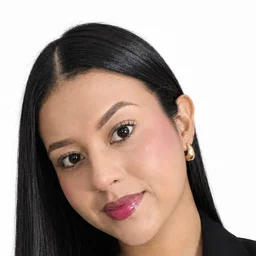
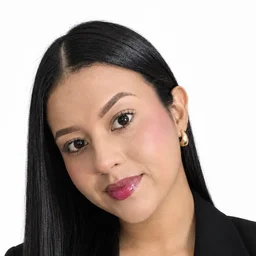
Portada: fotos de fundadores actualizadas, Stefania De La Cruz y nueva foto del equipo

diff --git a/prototipo/app/templates/inicio.html b/prototipo/app/templates/inicio.html
@@ -128,7 +128,7 @@
     <h2 id="fundadores">Fundadores y Mentoría</h2>
     <p class="equipo-nombre"><strong>{{ NOMBRE_EQUIPO }}</strong></p>
     <p>Resilis lo construye el equipo {{ NOMBRE_EQUIPO }}, de la {{ INSTITUCION }} ({{ PAIS }}), para el Rally Latinoamericano de Innovación 2026.</p>
-    {% if FOTO_EQUIPO %}<figure class="foto-equipo"><img src="/static/img/{{ FOTO_EQUIPO }}" alt="{{ FOTO_EQUIPO_DESCRIPCION }}" width="900" height="690" loading="lazy"></figure>{% endif %}
+    {% if FOTO_EQUIPO %}<figure class="foto-equipo"><img src="/static/img/{{ FOTO_EQUIPO }}" alt="{{ FOTO_EQUIPO_DESCRIPCION }}" width="1000" height="500" loading="lazy"></figure>{% endif %}
     <h3>Fundadores</h3>
     {{ personas(FUNDADORES) }}
     {% if MENTORES %}

diff --git a/prototipo/app/equipo.py b/prototipo/app/equipo.py
@@ -14,11 +14,12 @@ FUNDADORES = [
     {"nombre": "Evelin Gómez Vergara", "rol": "", "texto": "", "foto": "fundador-evelin-gomez-vergara.webp"},
     {"nombre": "Maritza Domínguez Cervantes", "rol": "", "texto": "", "foto": "fundador-maritza-dominguez-cervantes.webp"},
     {"nombre": "Leandro Rodríguez Polo", "rol": "", "texto": "", "foto": "fundador-leandro-rodriguez-polo.webp"},
+    {"nombre": "Stefania De La Cruz", "rol": "", "texto": "", "foto": "fundador-stefania-de-la-cruz.webp"},
 ]
 
 # Foto del equipo reunido (archivo en /static/img/) y su descripción para lectores de pantalla.
 FOTO_EQUIPO = "equipo-nexus-innova.webp"
-FOTO_EQUIPO_DESCRIPCION = "Integrantes del equipo NEXUS INNOVA 4.0 sentados juntos en una oficina."
+FOTO_EQUIPO_DESCRIPCION = "Las siete personas fundadoras del equipo NEXUS INNOVA 4.0, de pie junto al logo de Resilis."
 
 
 MENTORES = [

diff --git a/prototipo/tests/test_portada.py b/prototipo/tests/test_portada.py
@@ -63,7 +63,7 @@ def test_la_seccion_de_fundadores_sale_de_la_lista_del_equipo(app_cliente, monke
 def test_el_equipo_completo_aparece_con_sus_nombres():
     nombres = [f["nombre"] for f in equipo.FUNDADORES]
     assert nombres == ["Dorelys Martinez", "Adriana Barrios Paez", "Carmela Miranda Gutierrez", "Evelin Gómez Vergara",
-                       "Maritza Domínguez Cervantes", "Leandro Rodríguez Polo"]
+                       "Maritza Domínguez Cervantes", "Leandro Rodríguez Polo", "Stefania De La Cruz"]
     assert (RAIZ / "app" / "static" / "img" / equipo.FOTO_EQUIPO).stat().st_size < 150_000
 
 
